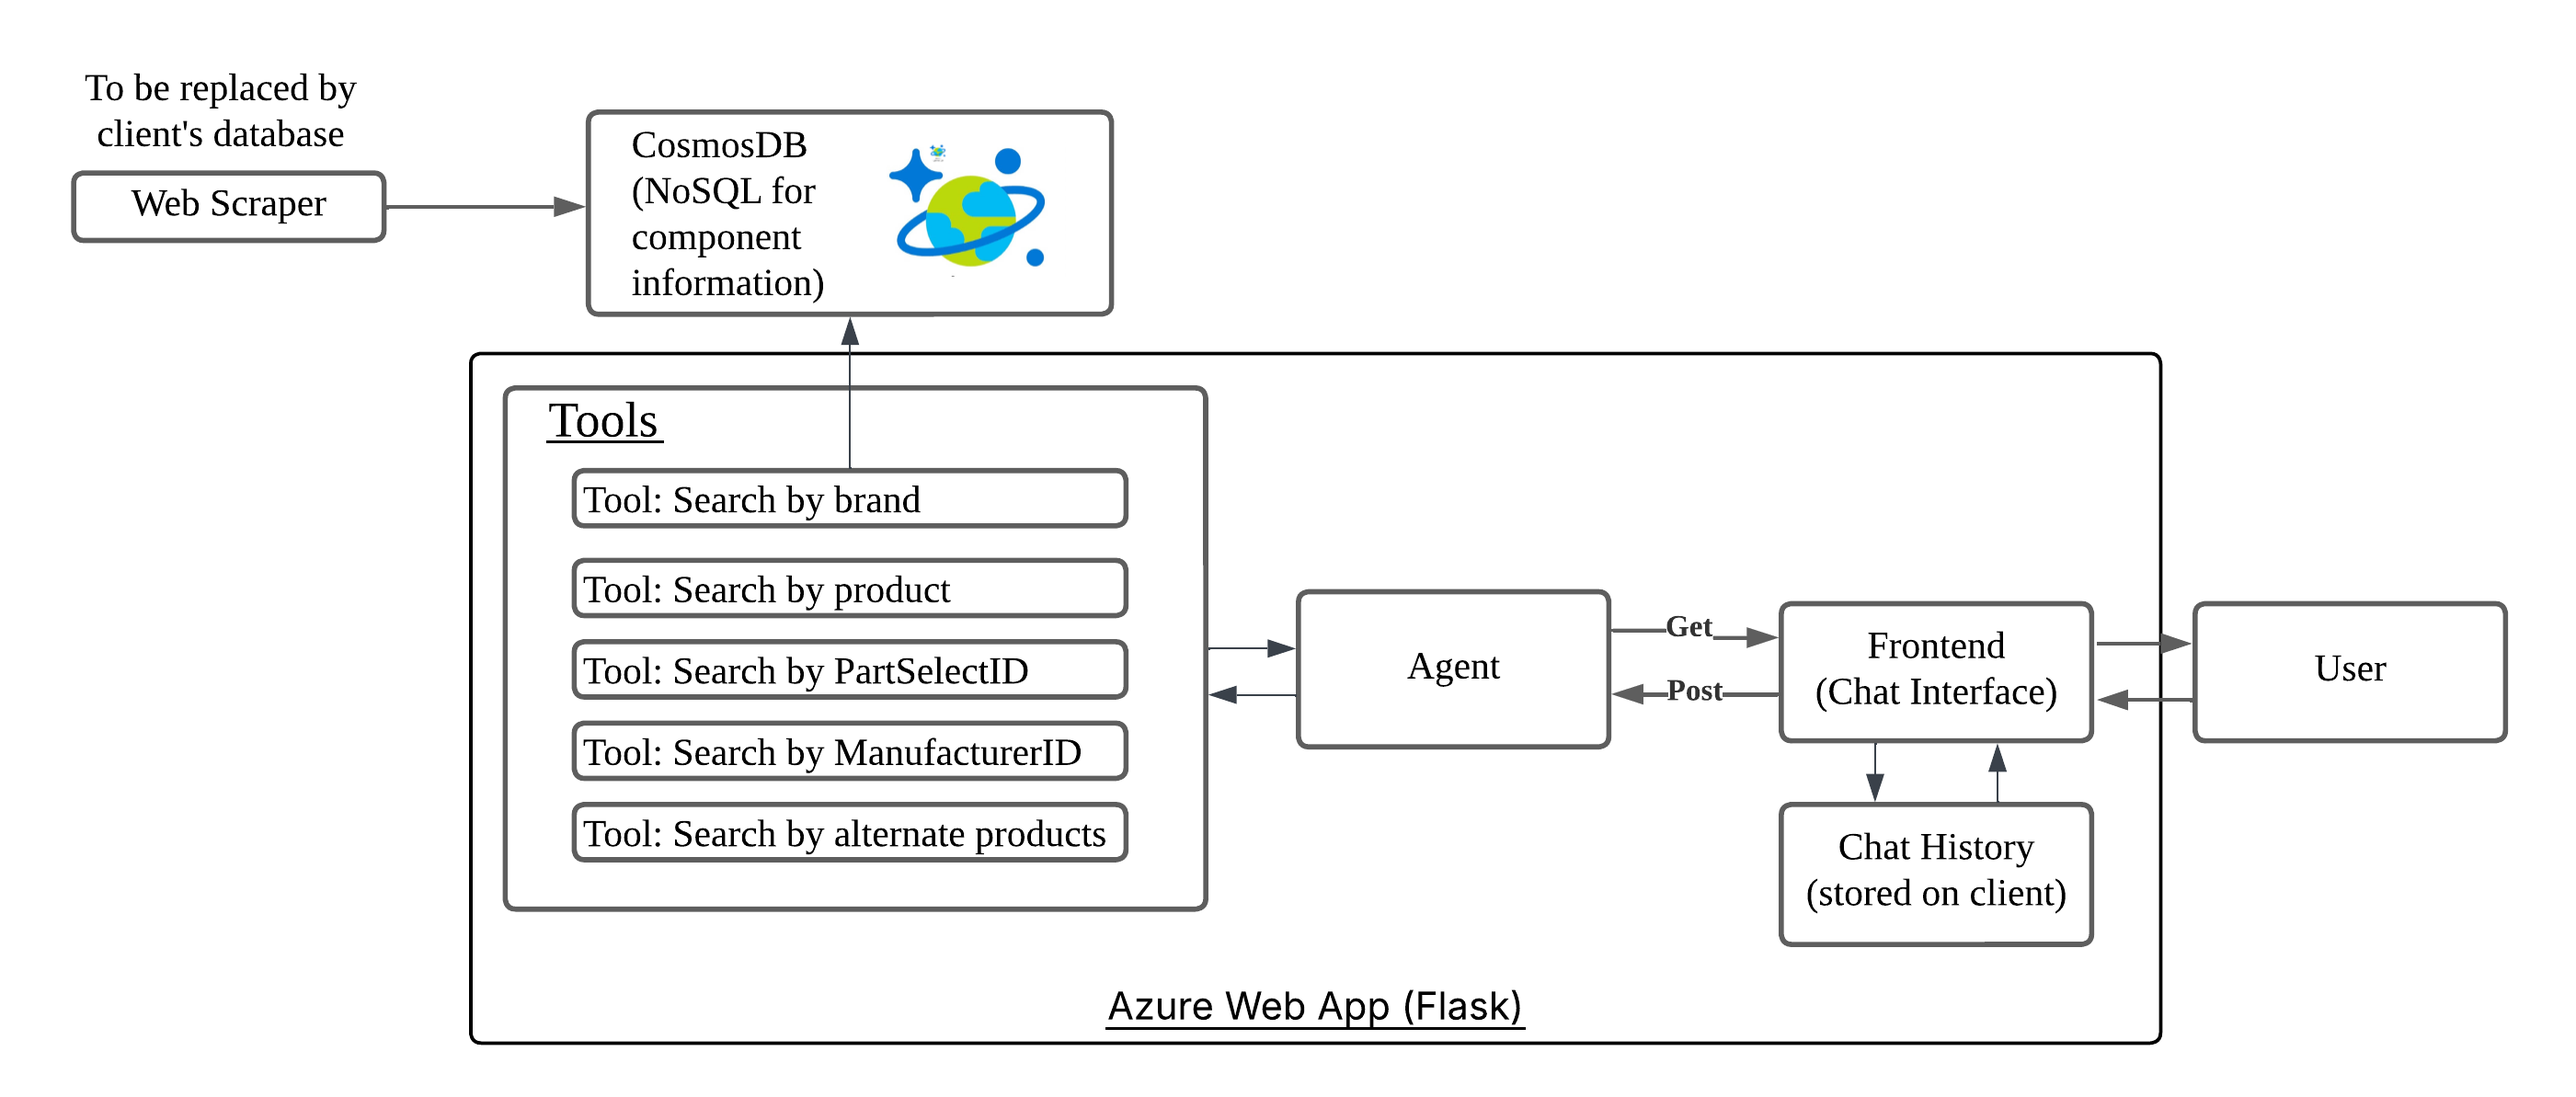
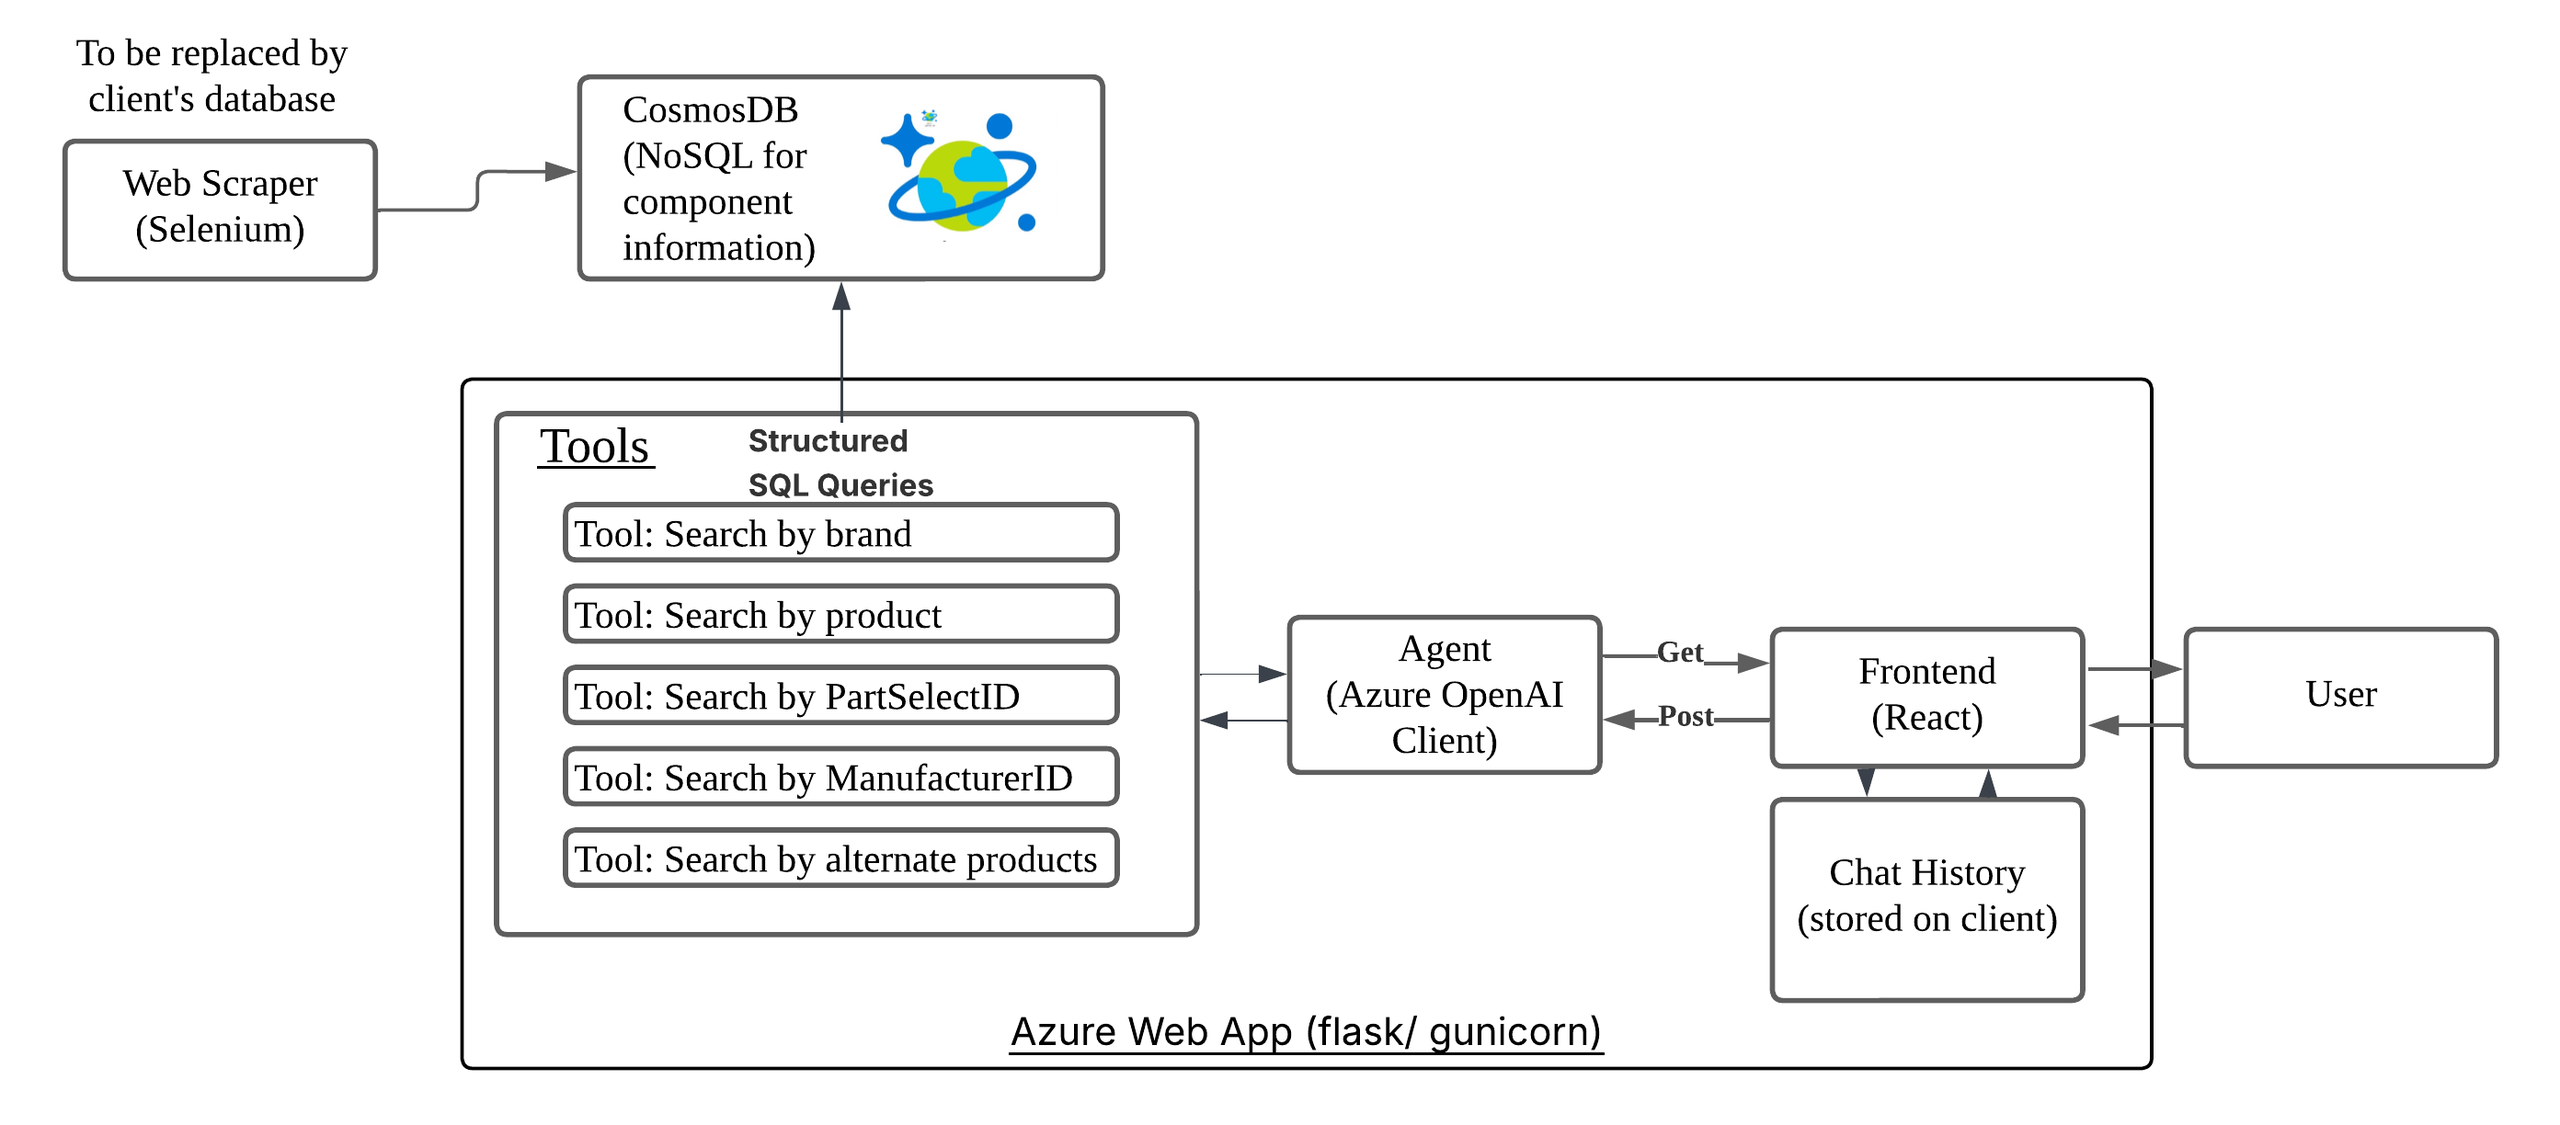
Updated readme and add live website link - would love to pull to yeok->main but somehow I cant without collaborator approval LOL

Changed region(s): [[0.0, 0.031, 1.0, 0.9614], [0.4688, 0.5272, 0.625, 0.7133]]

diff --git a/README.md b/README.md
@@ -1,4 +1,9 @@
 # Instalily Case Study Project
+
+Live Demo Website:
+
+https://app-web-kmw2ouujgm2ke.azurewebsites.net/
+
 ## Key functionalities
 - Scrape source website and puts information into CosmosDB
 - Instead of RAG from vectorstore (not exact), RAG with SQL. This allows exact matches and cheaper retrieval
@@ -30,6 +35,17 @@ python ./backend/scraper/scraper.py  --verbose --no-proxy --driver Chrome
 ```
 azd up
 ```
+
+Go to Azure portal for this web app -> Settings -> Configurations-> Start up command
+
+```
+gunicorn --bind=0.0.0.0 --timeout 600 startup:app
+```
+
+Make sure Python version is set to 3.11
+
+The website will be hosted at a random domain.
+
 # Systems diagram
 ![System Diagram](azure_app/system.png)
 
